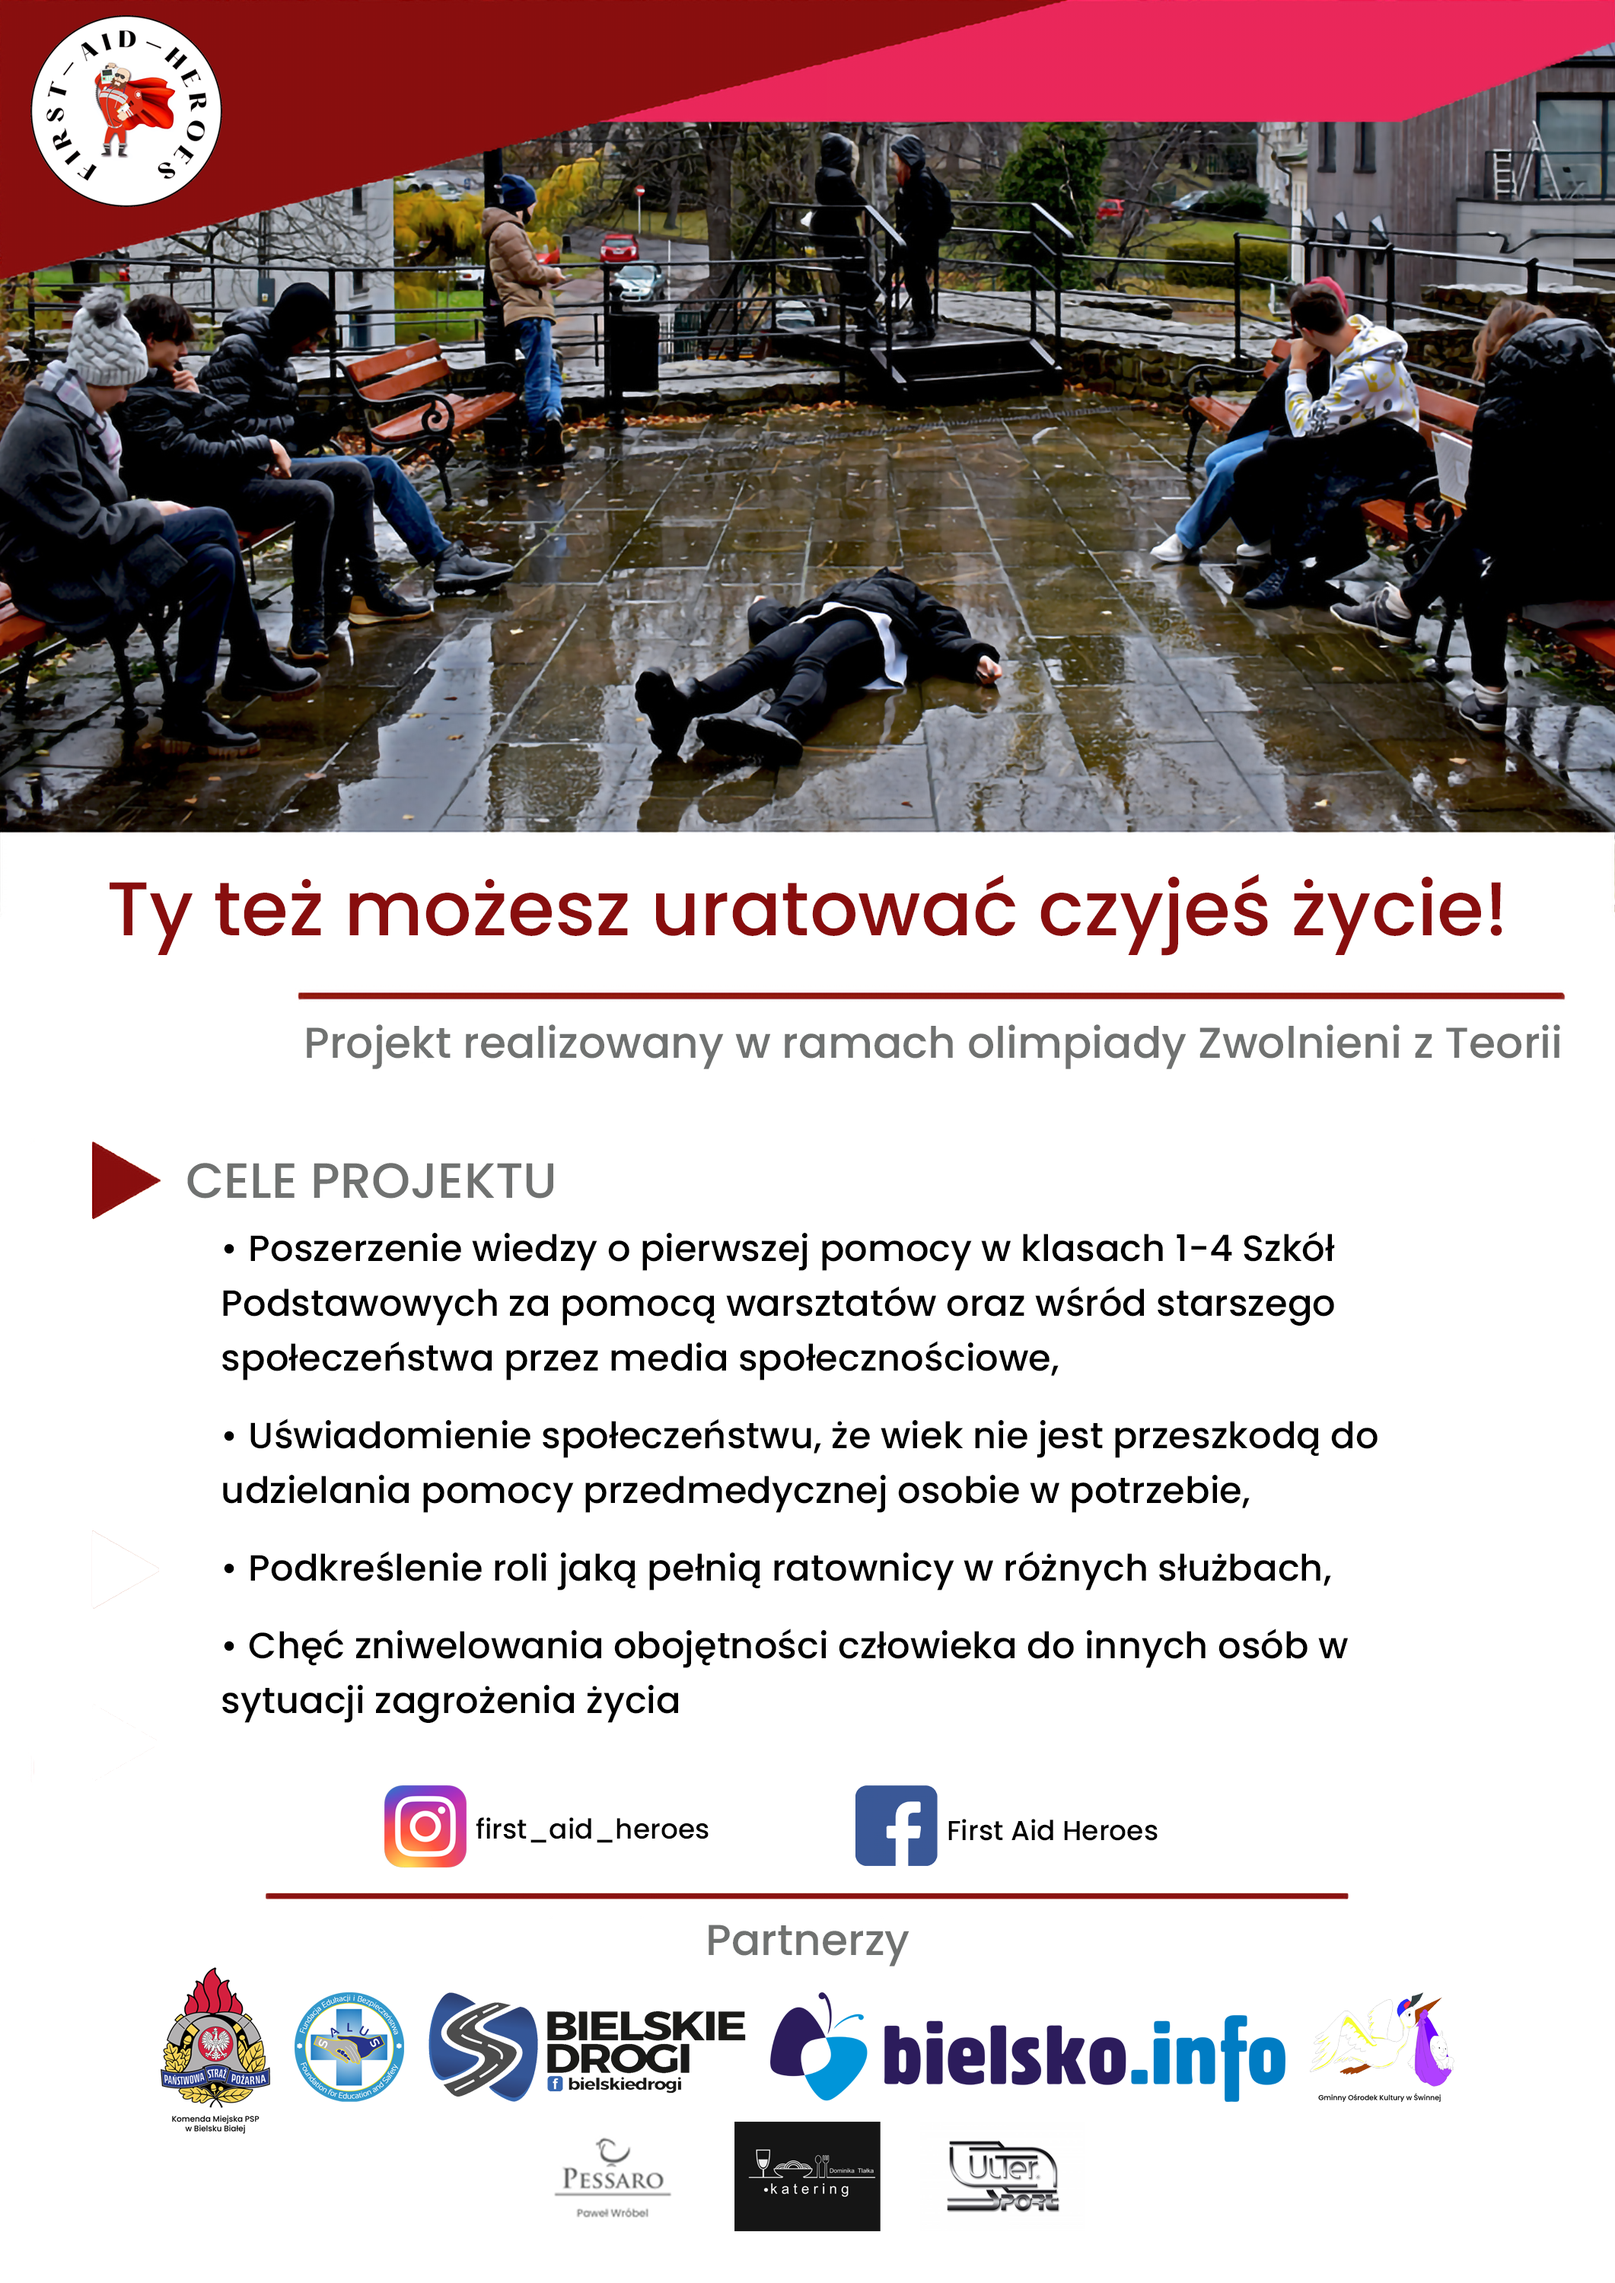
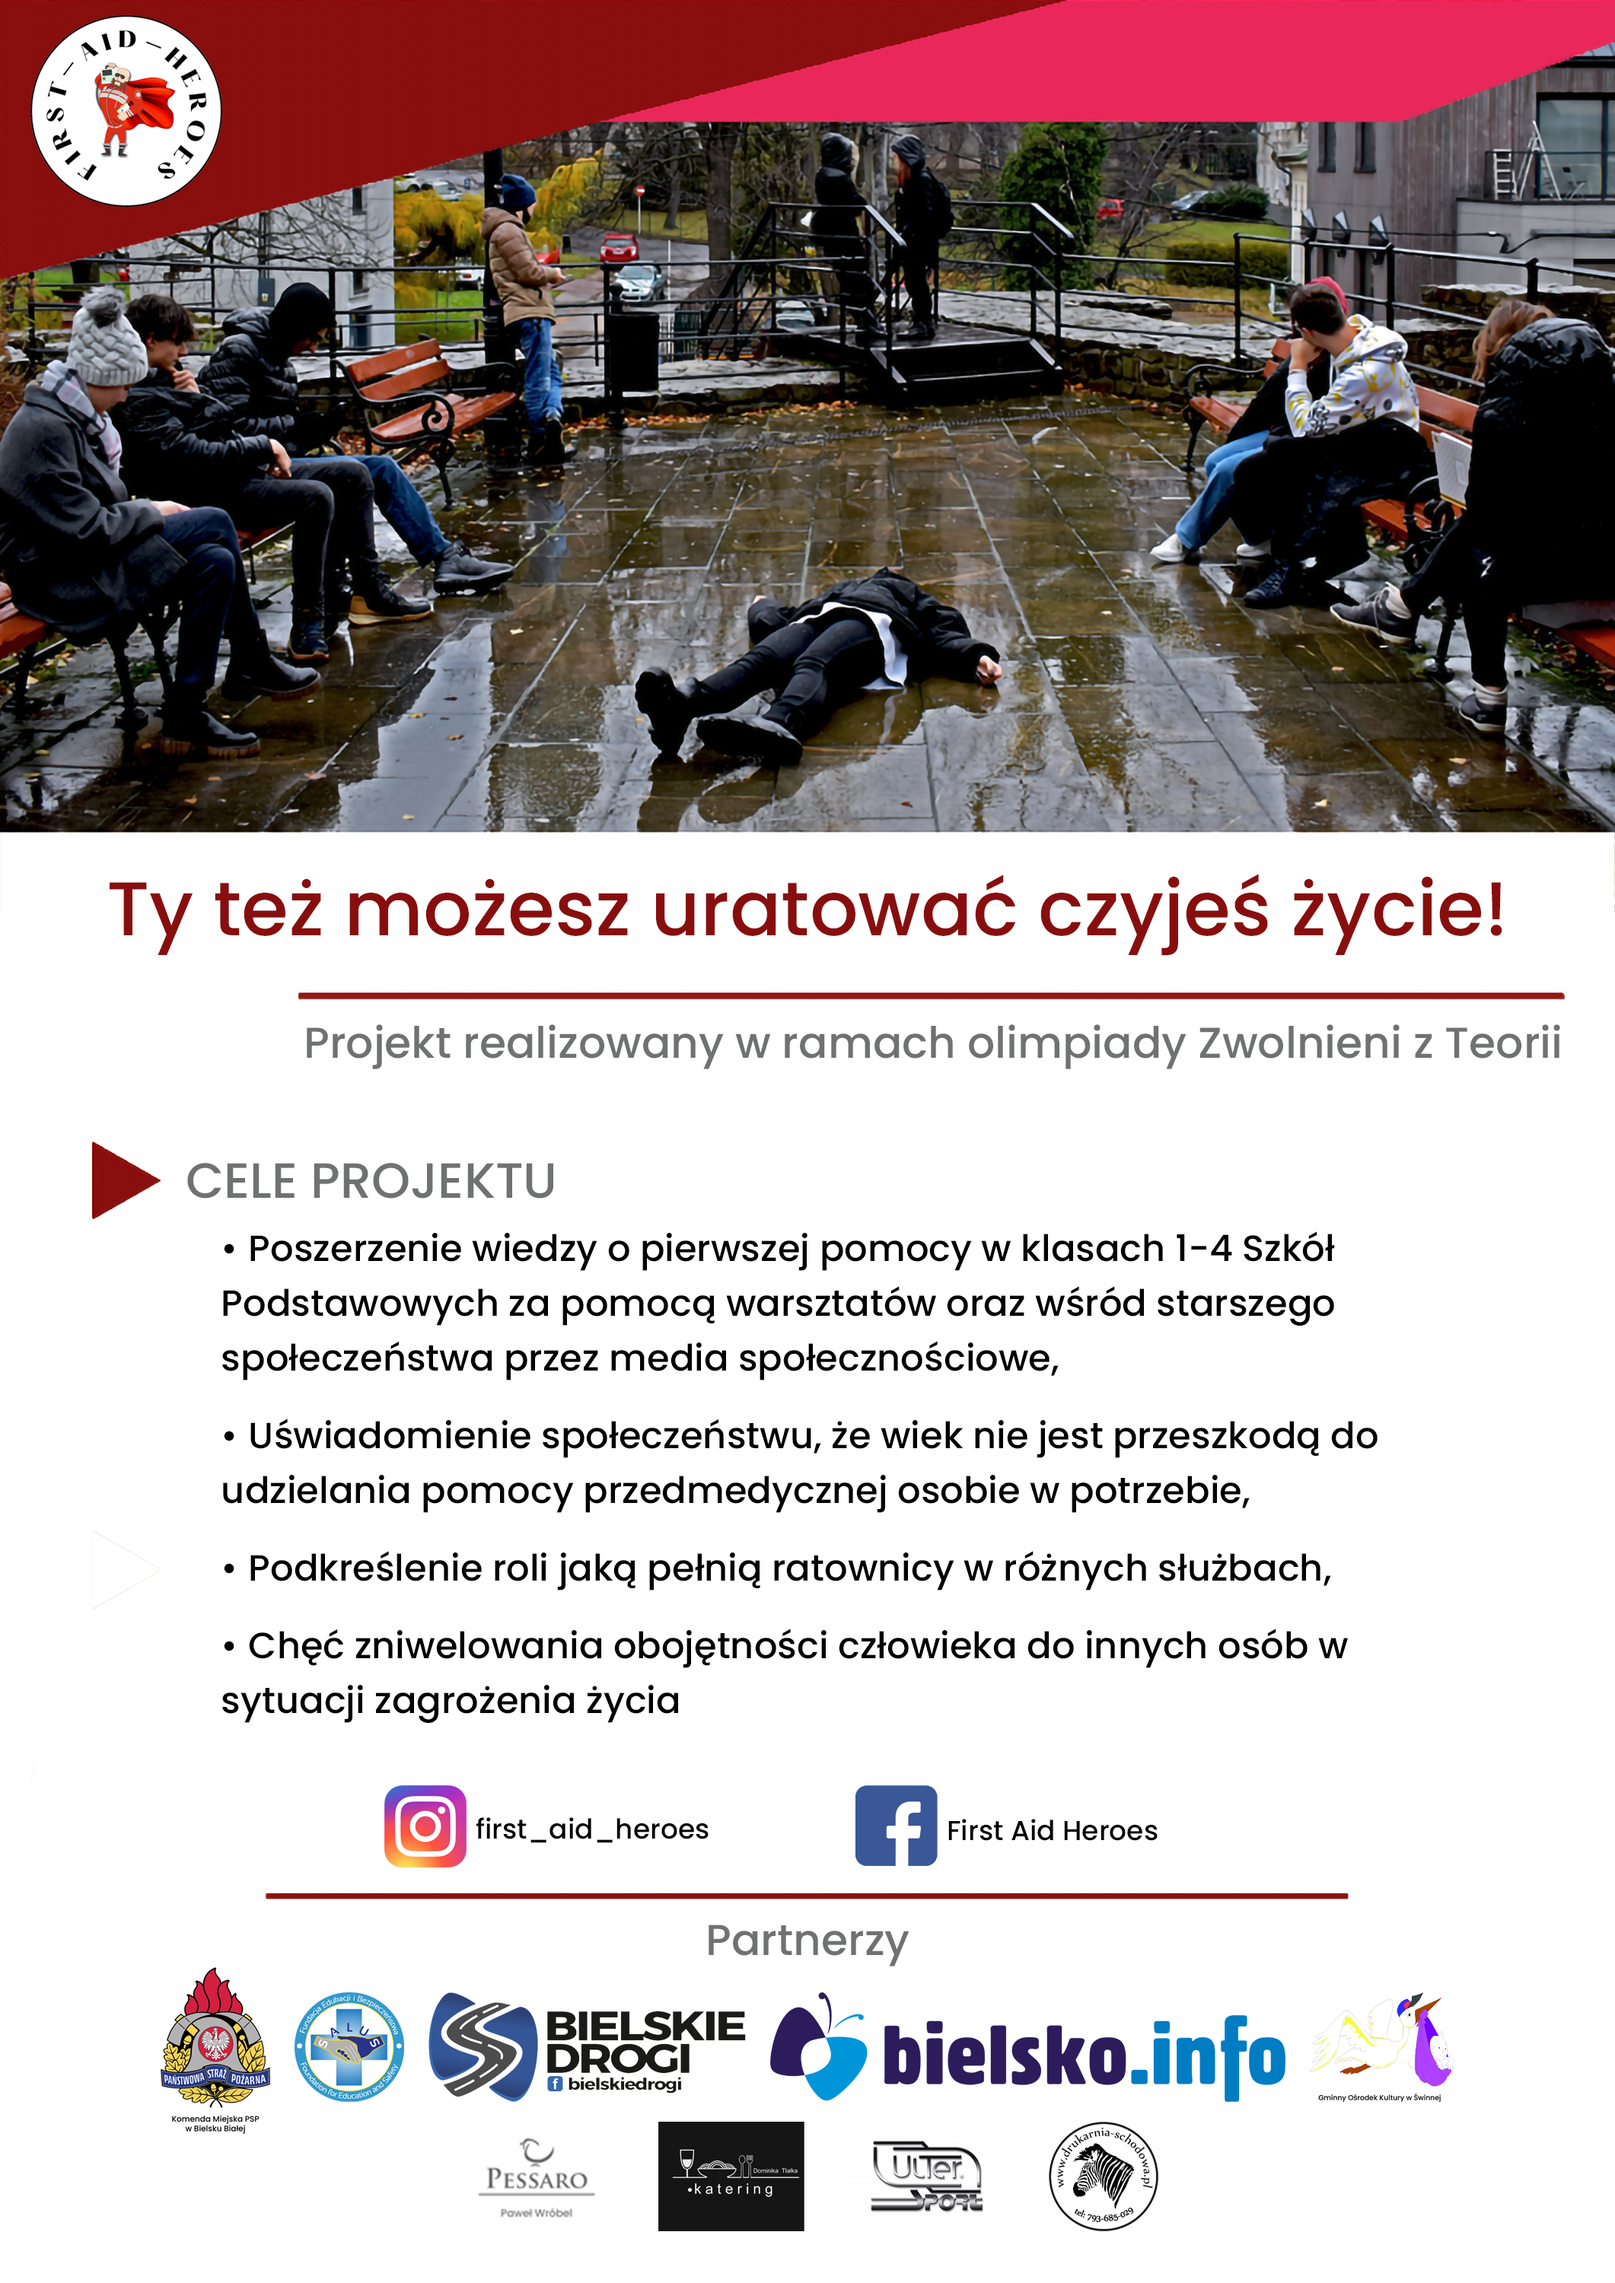
New sponsor added

Changed region(s): [[0.311, 0.93, 0.7154, 0.992]]

diff --git a/index.html b/index.html
@@ -156,7 +156,8 @@
                     <img src="img/partners/salus.png" width="250" height="250" alt="IMAGE">
                     <img src="img/partners/gok.png" width="380" height="280" alt="IMAGE">
                     <img src="img/partners/katering.jpg" width="380" height="280" alt="IMAGE">
-                    <img src="img/partners/pessaro.png" width="380" height="280" alt="IMAGE">
+                    <img src="img/partners/pessaro.png" width="400" height="300" alt="IMAGE">
+                    <img src="img/partners/druk.jpg" width="250" height="250" alt="IMAGE">
                 </div>
             </div>
             <div class="partners" id="sponsors">
